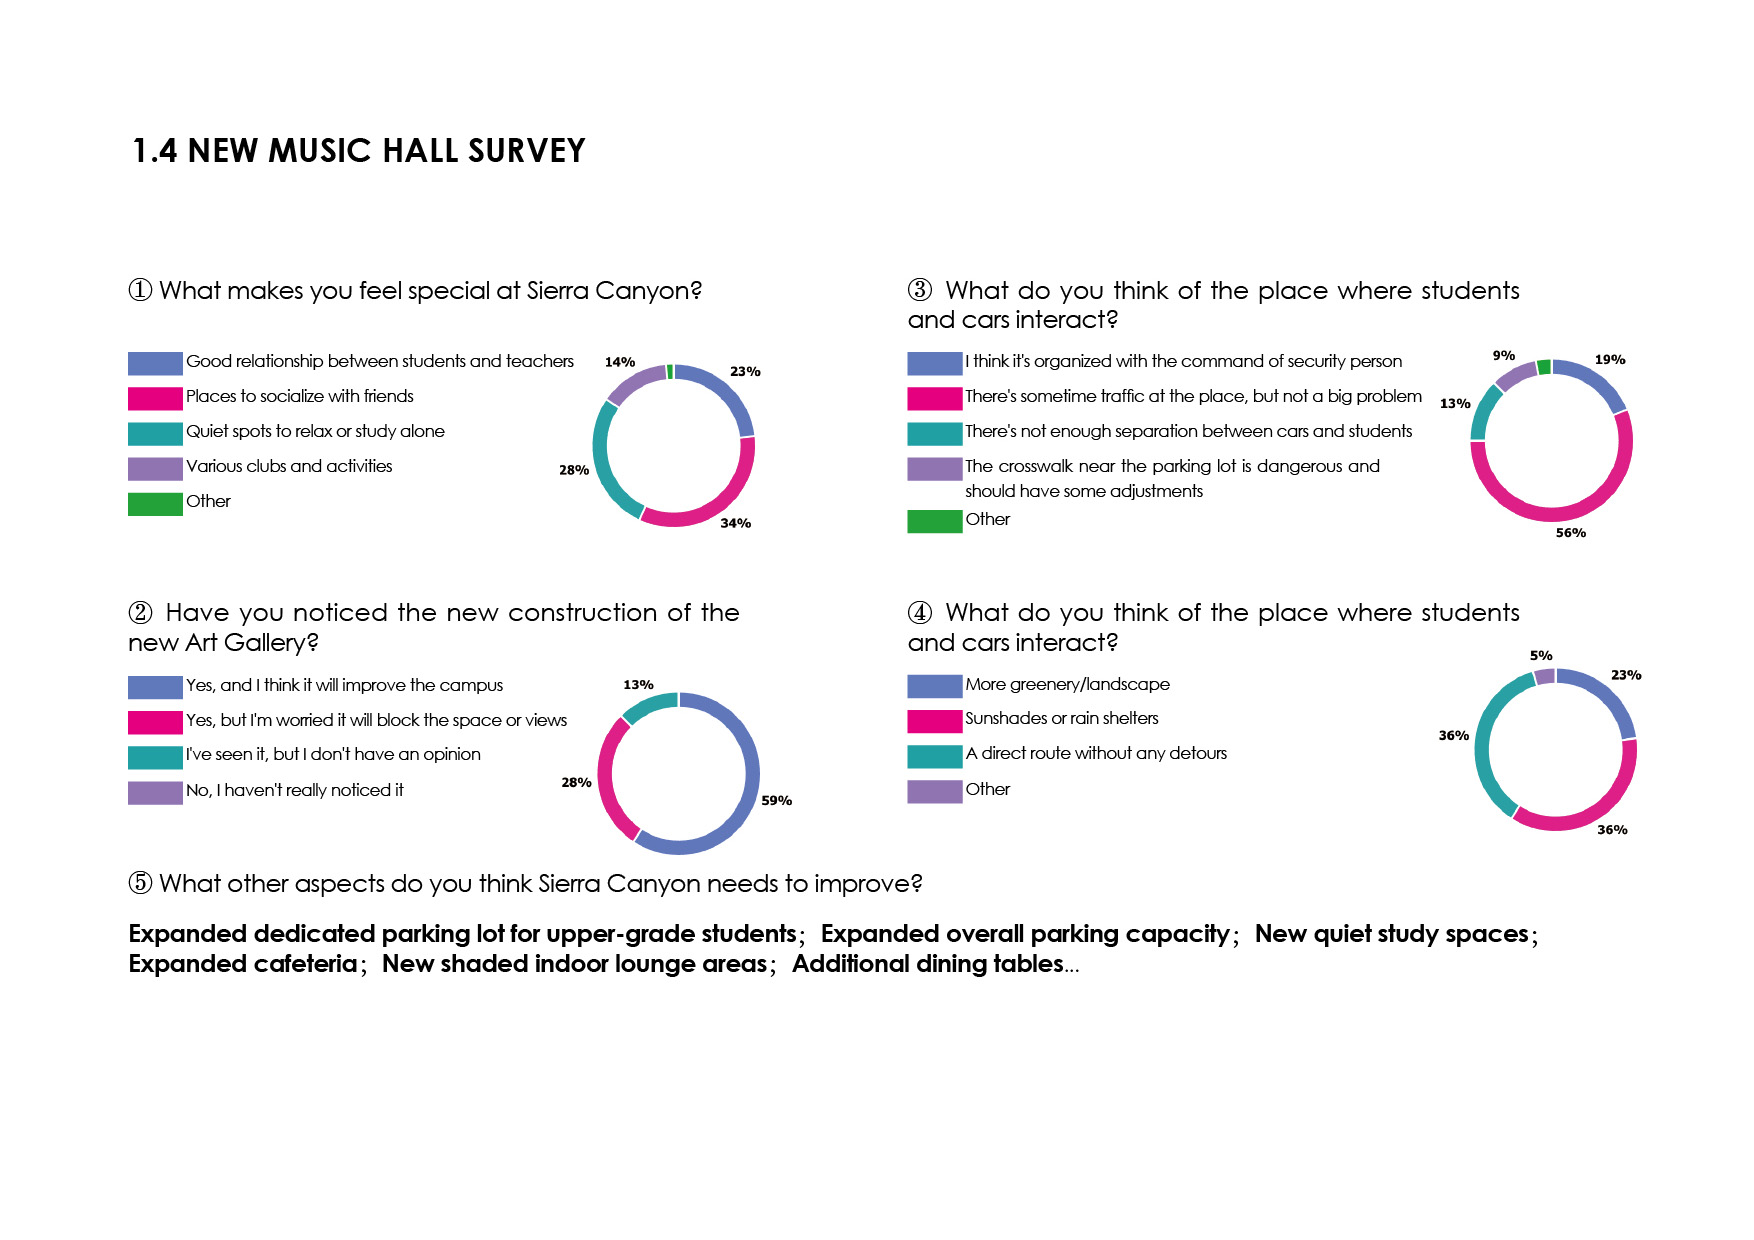
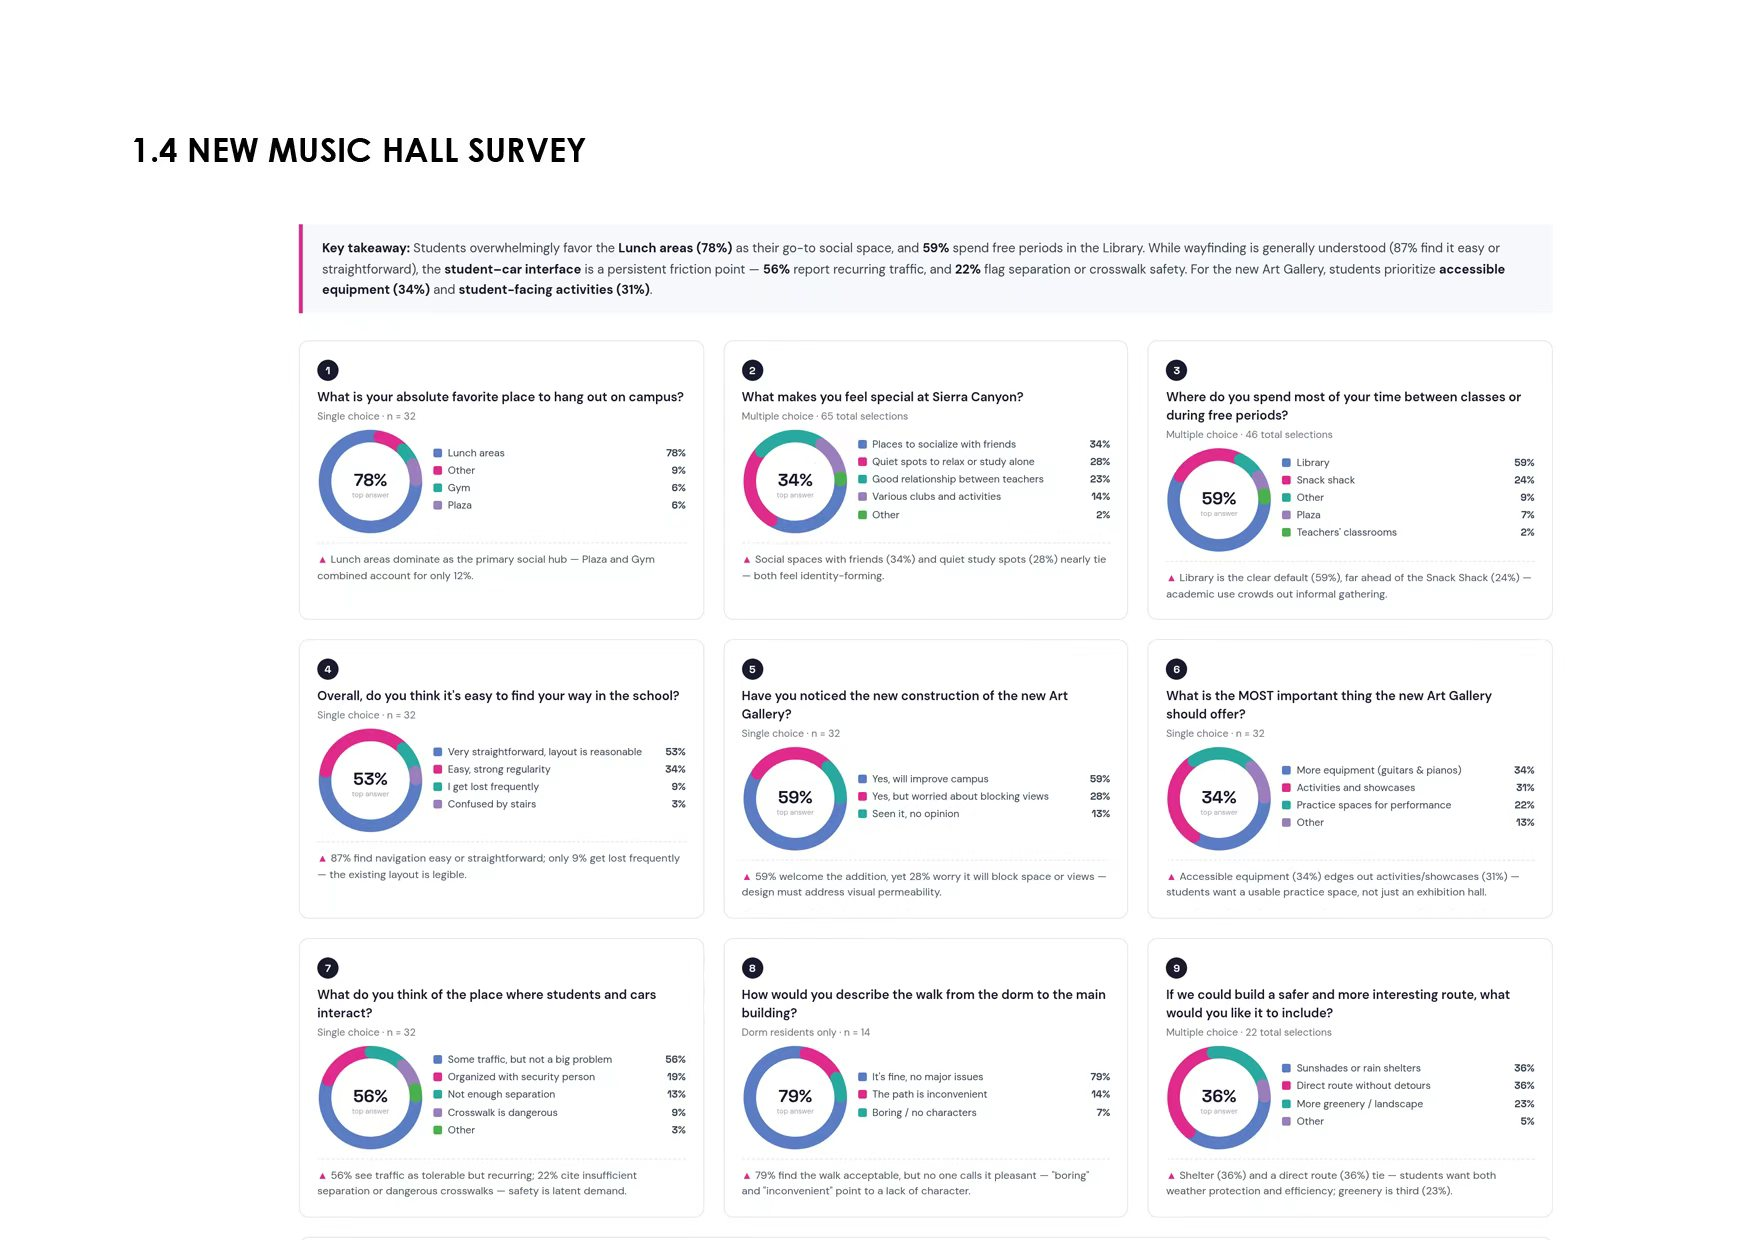
feat: update project01 page04 image and project06 plate 07 caption

diff --git a/project06.html b/project06.html
@@ -1096,7 +1096,7 @@
         <img src="assets/projects/project06/07.jpg" alt="Plate 07 - Stacked Views" loading="lazy">
       </div>
       <div class="page-caption">
-        <p>Looking past rows of bookshelves, vintage magazines sit lined up on the far shelf.</p>
+        <p>Beyond the rows of bookshelves, vintage magazines are lined up on the far shelf.</p>
       </div>
     </article>
 
